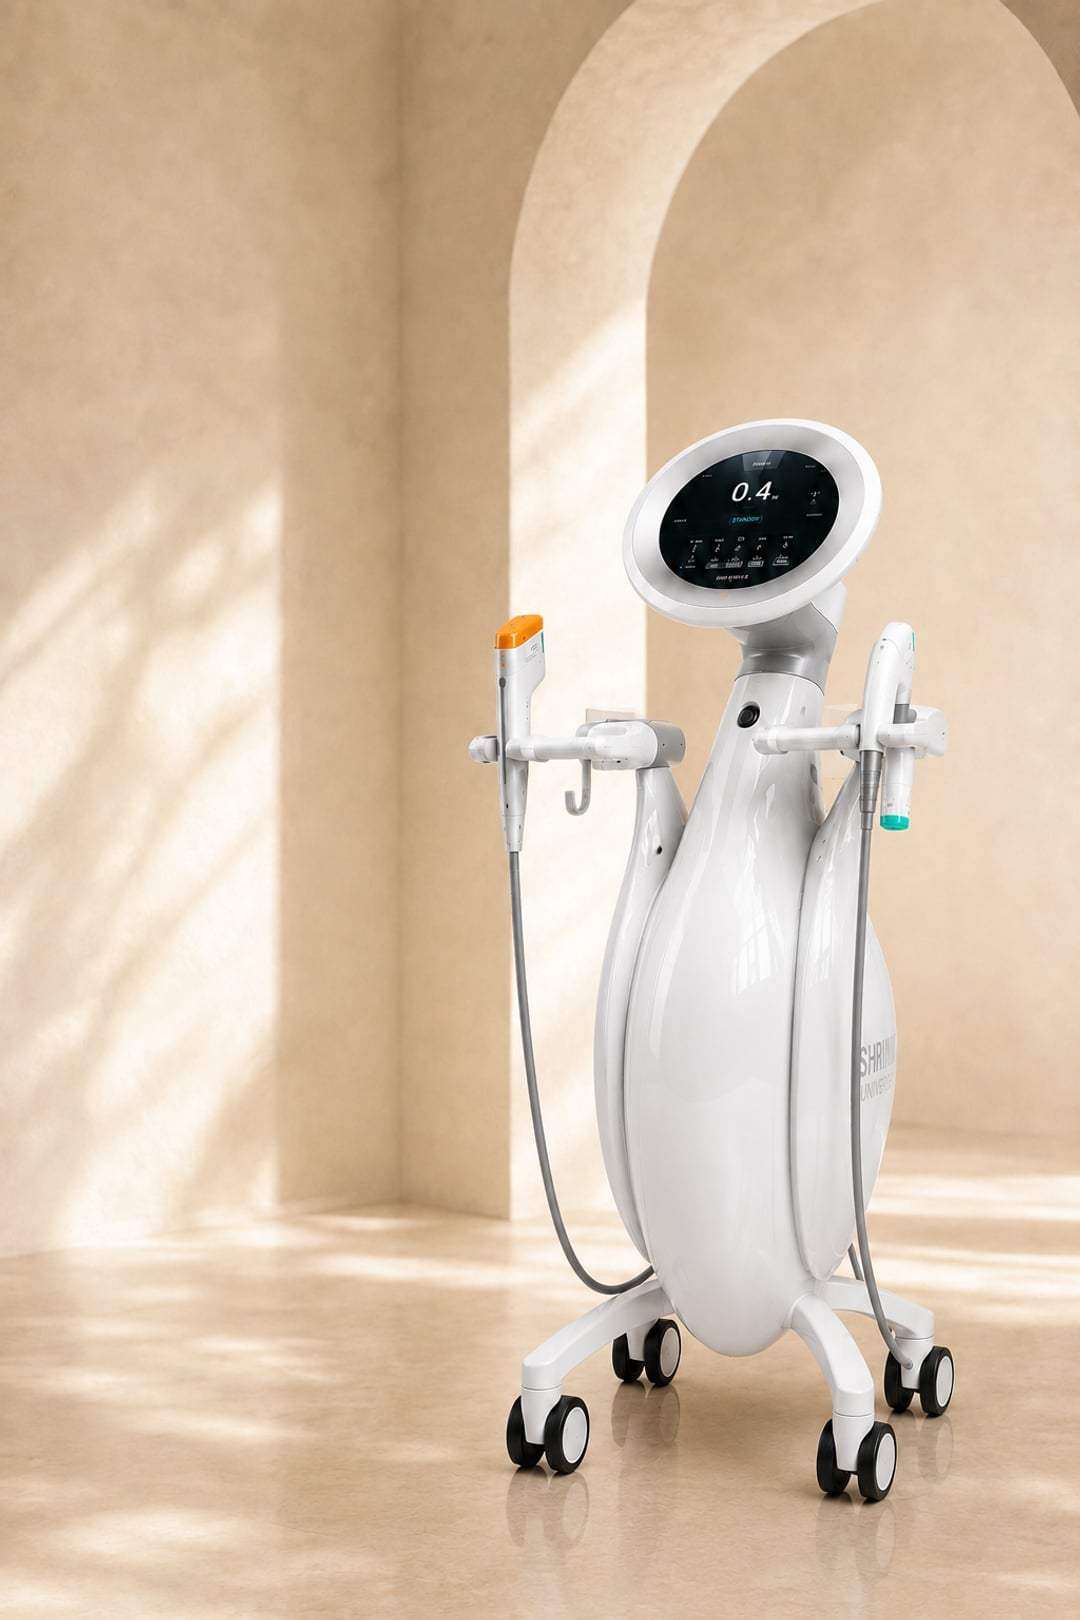
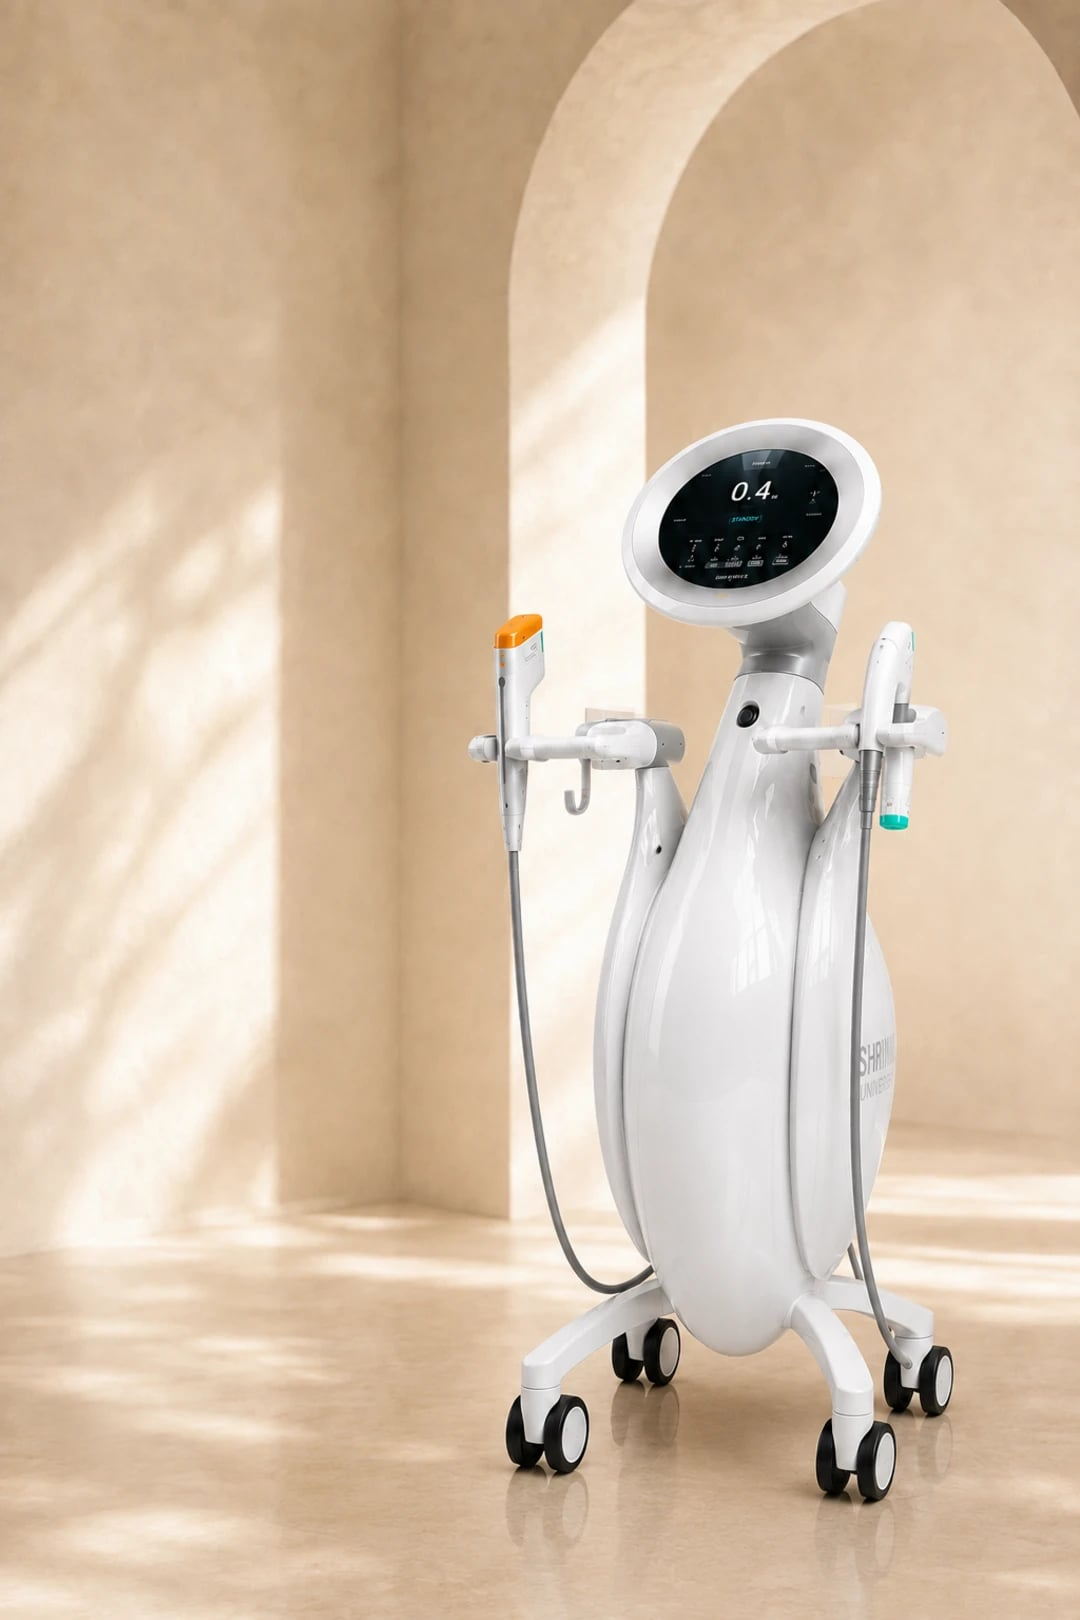
treatment/mobile: 장비 5종 모바일 히어로 이미지 적용 3차 (#33)
- 브이빔·시크릿 RF 신규, 슈링크·써마지·울쎄라 새 컷 교체(?v=2)

diff --git a/lib/devices.ts b/lib/devices.ts
@@ -190,9 +190,11 @@ export function getDeviceHeroImage(slug: string): string | null {
 
 // 모바일(세로 1080x1620) 히어로 — 없으면 데스크톱 히어로 사용
 const DEVICE_HERO_MOBILE: Record<string, string> = {
-  "ulthera-prime": "/devices/ulthera-prime-hero-m.jpg",
-  "thermage-flx": "/devices/thermage-flx-hero-m.jpg",
-  "shurink-universe": "/devices/shurink-universe-hero-m.jpg",
+  "ulthera-prime": "/devices/ulthera-prime-hero-m.jpg?v=2",
+  "thermage-flx": "/devices/thermage-flx-hero-m.jpg?v=2",
+  "shurink-universe": "/devices/shurink-universe-hero-m.jpg?v=2",
+  vbeam: "/devices/vbeam-hero-m.jpg",
+  "secret-rf": "/devices/secret-rf-hero-m.jpg",
   inmode: "/devices/inmode-hero-m.jpg?v=2",
   "clarity-ii": "/devices/clarity-ii-hero-m.jpg?v=2",
   "fotona-starwalker": "/devices/fotona-starwalker-hero-m.jpg",
